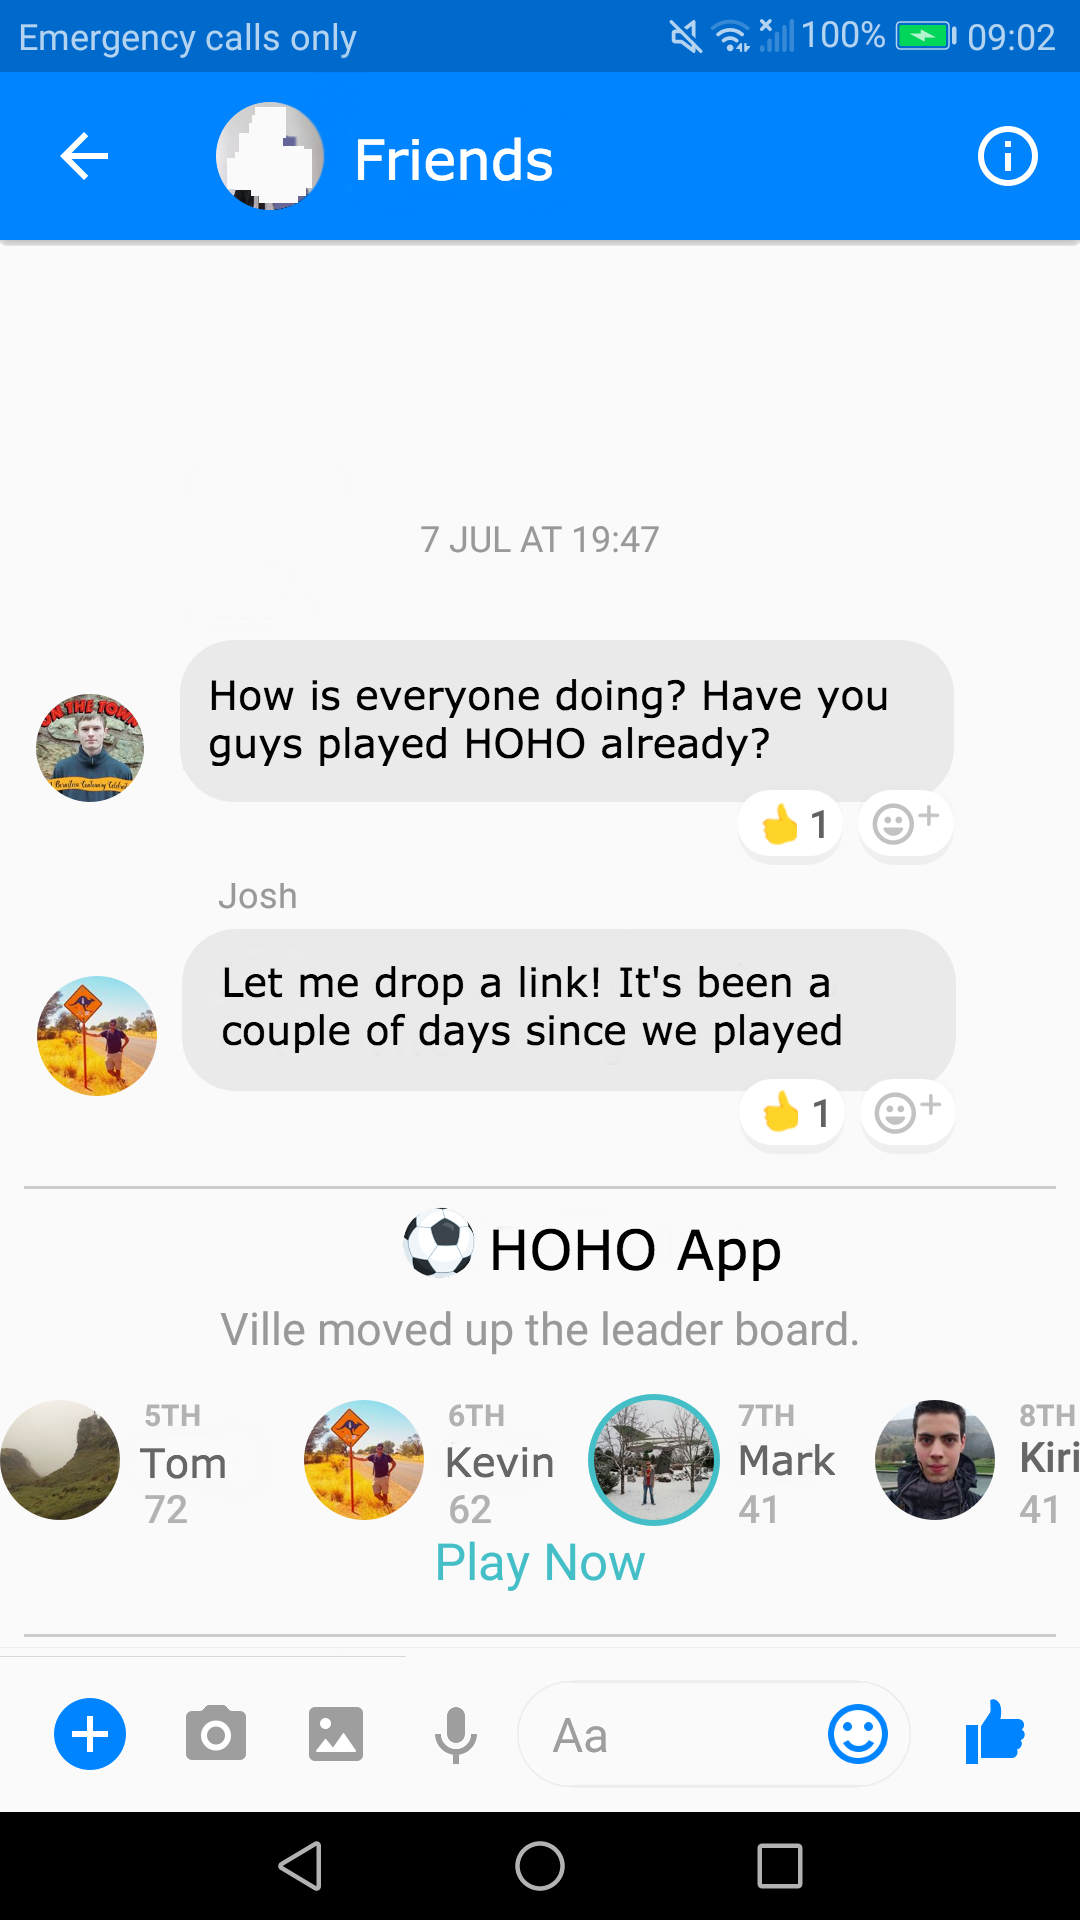
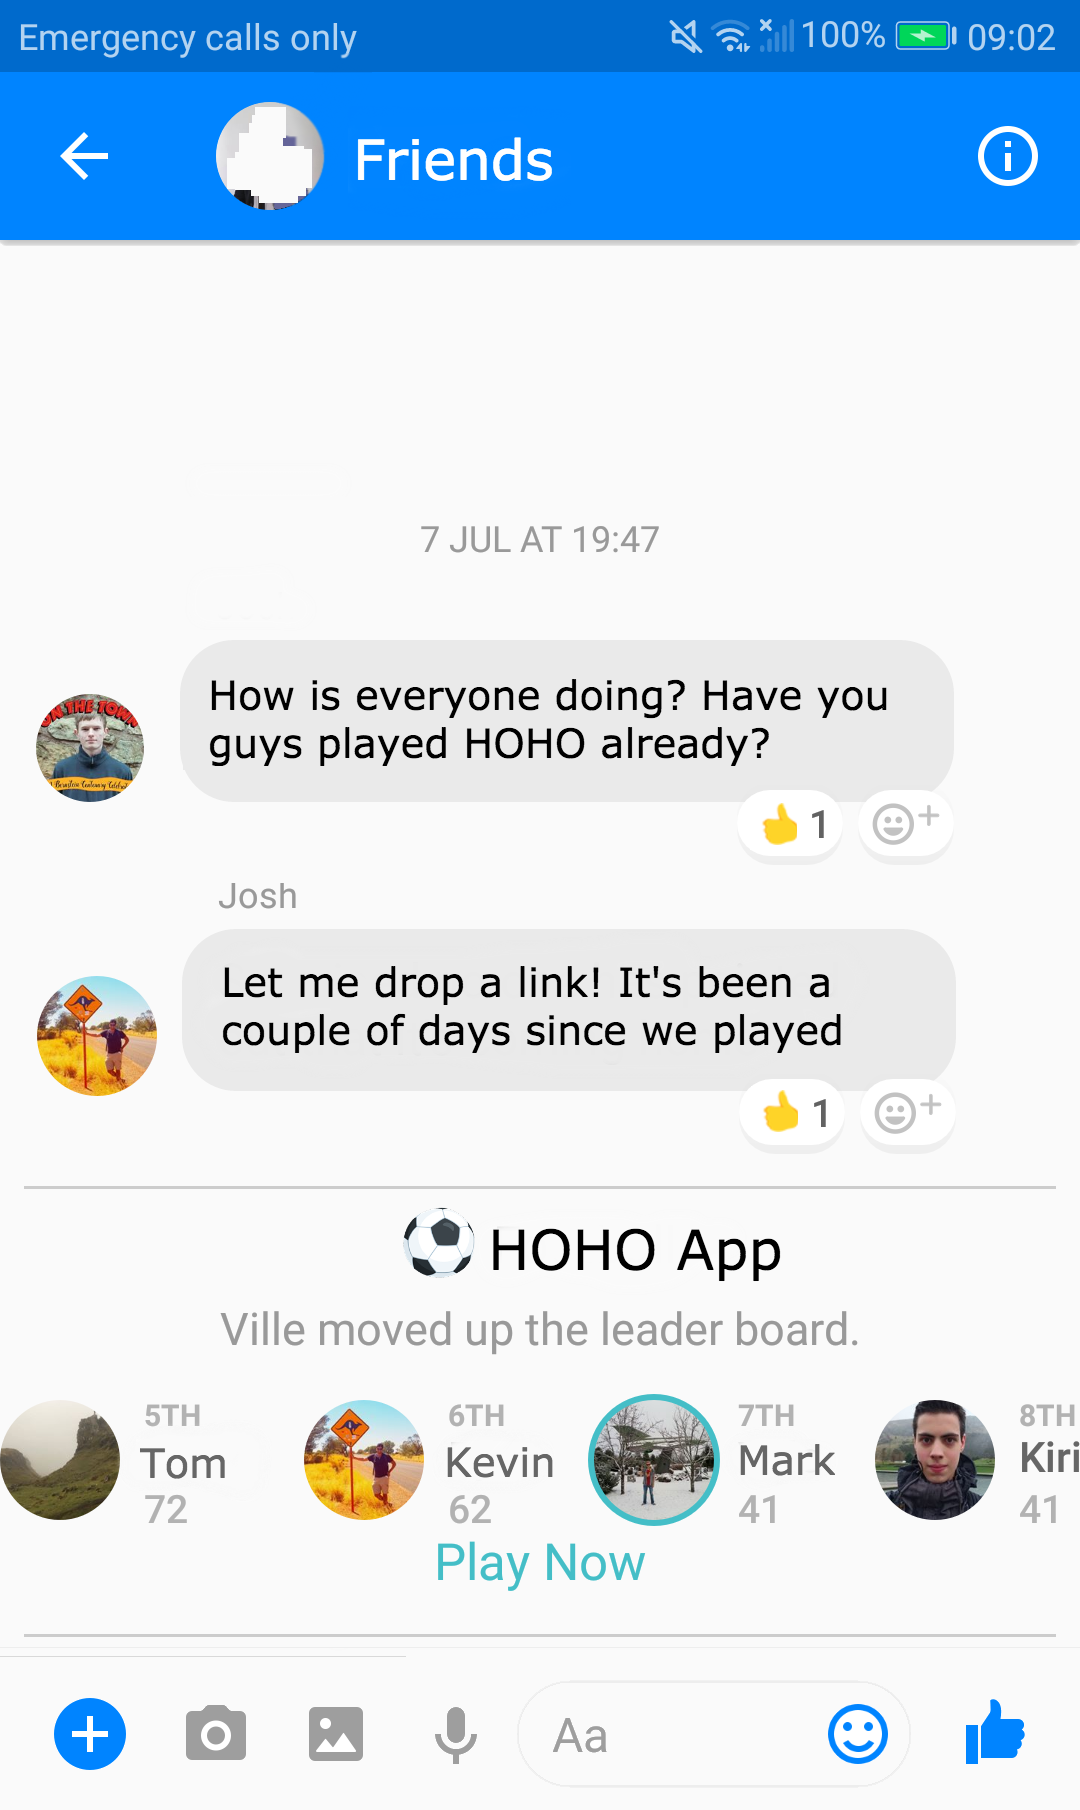
final

diff --git a/src/pages/home/home.ts b/src/pages/home/home.ts
@@ -1,9 +1,12 @@
 import { Component } from '@angular/core';
 import { NavController } from 'ionic-angular';
-import {LoadingController, ToastController} from 'ionic-angular';
+import {LoadingController, ToastController, AlertController} from 'ionic-angular';
 import {FriendPage} from '../friend/friend';
 import { MorePage } from '../more/more';
 import { BonusPage } from '../bonus/bonus';
+import { PhotoViewer } from '@ionic-native/photo-viewer';
+import { File } from '@ionic-native/file';
+import { Platform } from 'ionic-angular';
 
 @Component({
   selector: 'page-home',
@@ -12,7 +15,7 @@ import { BonusPage } from '../bonus/bonus';
 })
 export class HomePage {
 
-
+  first:boolean = true;
   source:string = "assets/img/tick.png"
   p1:string="assets/img/i16.png";
   p2:string="assets/img/i11.png";
@@ -23,8 +26,21 @@ export class HomePage {
   p7:string="assets/img/i15.png";
   p8:string="assets/img/i17.png";
 
-  constructor(public navCtrl: NavController, public loadCtrl: LoadingController, public toastCtrl: ToastController) {
+  constructor(public navCtrl: NavController, public loadCtrl: LoadingController, public toastCtrl: ToastController,private photoViewer: PhotoViewer
+    ,private file: File,public platform: Platform, public alertCtrl: AlertController) {
 
+  }
+
+
+  ionViewDidLoad() {
+
+    
+    this.platform.ready().then(() => { 
+        if(this.first==true){
+          this.first=false;
+          this.onViewImg('www/assets/img/sc3.png','')
+        }
+    });
   }
 
   showProfilePage() {
@@ -87,5 +103,17 @@ export class HomePage {
     loading.present();
   }
   
-  
+  onViewImg(img, title){
+    console.log(this.file.applicationDirectory , img);
+    this.photoViewer.show(this.file.applicationDirectory + img, title, {share: true});
+  }
+
+  presentAlert() {
+    let alert = this.alertCtrl.create({
+      subTitle: 'You\'ve been having light back pain for the last 2 months. Contact your GP for more information!',
+      title: 'Daily contribution! +50 Points',
+      buttons: ['Continue']
+    });
+    alert.present();
+  }
 }

diff --git a/src/pages/friend/friend.ts b/src/pages/friend/friend.ts
@@ -2,6 +2,8 @@ import { Component } from '@angular/core';
 import { IonicPage, NavController, NavParams } from 'ionic-angular';
 import { ProgressBarComponent } from '../../components/progress-bar/progress-bar';
 import { AlertController } from 'ionic-angular';
+import { PhotoViewer } from '@ionic-native/photo-viewer';
+import { File } from '@ionic-native/file';
 
 /**
  * Generated class for the FriendPage page.
@@ -20,7 +22,8 @@ export class FriendPage {
 
   loadProgress:number = 10;
 
-  constructor(public navCtrl: NavController, public navParams: NavParams, private alertCtrl: AlertController) {
+  constructor(public navCtrl: NavController, public navParams: NavParams, private alertCtrl: AlertController,private photoViewer: PhotoViewer
+    ,private file: File) {
   }
 
   ionViewDidLoad() {
@@ -29,7 +32,7 @@ export class FriendPage {
 
 
   swipe(event) {
-    if(event.direction === 4) {
+    if(event.direction == 4) {
       //this.navCtrl.push(HomePage);
       this.navCtrl.popToRoot()
     }
@@ -38,11 +41,16 @@ export class FriendPage {
   
   presentAlert() {
     let alert = this.alertCtrl.create({
-      subTitle: 'John seems to be having pain for the last 3 weeks',
+      subTitle: 'John seems to be having tooth pain for the last 3 weeks',
       title: 'Reach him out!',
       buttons: ['Okay']
     });
     alert.present();
+  }
+
+  onViewImg(img, title){
+    console.log(this.file.applicationDirectory , img);
+    this.photoViewer.show(this.file.applicationDirectory + img, title, {share: true});
   }
 
 }

diff --git a/src/pages/data/data.html b/src/pages/data/data.html
@@ -1,0 +1,52 @@
+<!--
+  Generated template for the DataPage page.
+
+  See http://ionicframework.com/docs/components/#navigation for more info on
+  Ionic pages and navigation.
+-->
+<ion-header>
+
+  <ion-navbar>
+    <ion-title>My progress so far</ion-title>
+  </ion-navbar>
+
+</ion-header>
+
+
+<ion-content padding>
+    <div class="main-content" (swipe)="swipe($event)">
+
+        <ion-card>
+
+            <img src="assets/img/gfx.png"/>
+        
+            <ion-card-content>
+              <ion-card-title>
+                Points: 3550
+              </ion-card-title>
+              <p>
+                Average weekly contributions: 3
+              </p>
+            </ion-card-content>
+        
+        
+            <ion-item>
+                <ion-icon name='pulse' item-start style="color: #55acee"></ion-icon>
+      
+                Health
+                <ion-badge item-end>Satisfactory</ion-badge>
+              </ion-item>
+    
+
+
+          <ion-item>
+              <ion-icon name="body" item-start ></ion-icon>
+                Mild back pain
+              <ion-badge item-end>Check</ion-badge>
+            </ion-item>
+  
+      
+        </ion-card>
+
+    </div>
+</ion-content>

diff --git a/src/pages/me/me.html b/src/pages/me/me.html
@@ -1,0 +1,50 @@
+<!--
+  Generated template for the MePage page.
+
+  See http://ionicframework.com/docs/components/#navigation for more info on
+  Ionic pages and navigation.
+-->
+<ion-header>
+
+  <ion-navbar>
+    <ion-title>My profile</ion-title>
+  </ion-navbar>
+
+</ion-header>
+
+
+<ion-content padding>
+    <div class="main-content" (swipe)="swipe($event)">
+
+    <ion-card>
+
+        <img src="assets/img/prof.jpg"/>
+    
+        <ion-card-content>
+          <ion-card-title>
+            Will
+          </ion-card-title>
+          <p>
+            A father of two
+          </p>
+        </ion-card-content>
+    
+    
+        <ion-item>
+            <ion-icon name='pulse' item-start style="color: #55acee"></ion-icon>
+  
+            Health
+            <ion-badge item-end>Satisfactory</ion-badge>
+          </ion-item>
+
+        <ion-item>
+            <ion-icon name="pricetags" item-start ></ion-icon>
+
+          Points
+          <ion-badge item-end>3550</ion-badge>
+        </ion-item>
+
+    
+      </ion-card>
+    </div>
+</ion-content>

diff --git a/src/app/app.module.ts b/src/app/app.module.ts
@@ -8,6 +8,8 @@ import { ListPage } from '../pages/list/list';
 import { FriendPage } from '../pages/friend/friend';
 import { MorePage } from '../pages/more/more';
 import { BonusPage } from '../pages/bonus/bonus';
+import { MePage } from '../pages/me/me';
+import { DataPage } from '../pages/data/data';
 
 
 import { StatusBar } from '@ionic-native/status-bar';
@@ -24,6 +26,8 @@ import { ProgressBarComponent } from '../components/progress-bar/progress-bar';
     FriendPage,
     MorePage,
     BonusPage,
+    MePage,
+    DataPage,
     ProgressBarComponent
     
   ],
@@ -39,6 +43,8 @@ import { ProgressBarComponent } from '../components/progress-bar/progress-bar';
     FriendPage,
     MorePage,
     BonusPage,
+    MePage,
+    DataPage
     
   ],
   providers: [

diff --git a/src/pages/data/data.ts b/src/pages/data/data.ts
@@ -1,0 +1,32 @@
+import { Component } from '@angular/core';
+import { IonicPage, NavController, NavParams } from 'ionic-angular';
+
+/**
+ * Generated class for the DataPage page.
+ *
+ * See https://ionicframework.com/docs/components/#navigation for more info on
+ * Ionic pages and navigation.
+ */
+
+@IonicPage()
+@Component({
+  selector: 'page-data',
+  templateUrl: 'data.html',
+})
+export class DataPage {
+
+  constructor(public navCtrl: NavController, public navParams: NavParams) {
+  }
+
+  ionViewDidLoad() {
+    console.log('ionViewDidLoad DataPage');
+  }
+
+  swipe(event) {
+    if(event.direction == 4) {
+      //this.navCtrl.push(HomePage);
+      this.navCtrl.popToRoot()
+    }
+  }
+
+}

diff --git a/src/pages/me/me.ts b/src/pages/me/me.ts
@@ -1,0 +1,32 @@
+import { Component } from '@angular/core';
+import { IonicPage, NavController, NavParams } from 'ionic-angular';
+import { DataPage } from '../data/data';
+
+/**
+ * Generated class for the MePage page.
+ *
+ * See https://ionicframework.com/docs/components/#navigation for more info on
+ * Ionic pages and navigation.
+ */
+
+@IonicPage()
+@Component({
+  selector: 'page-me',
+  templateUrl: 'me.html',
+})
+export class MePage {
+
+  constructor(public navCtrl: NavController, public navParams: NavParams) {
+  }
+
+  ionViewDidLoad() {
+    console.log('ionViewDidLoad MePage');
+  }
+
+  swipe(event) {
+    if(event.direction == 2) {
+      this.navCtrl.push(DataPage);
+    }
+  }
+
+}

diff --git a/src/app/app.component.ts b/src/app/app.component.ts
@@ -8,6 +8,8 @@ import { ListPage } from '../pages/list/list';
 import { FriendPage } from '../pages/friend/friend';
 import { MorePage } from '../pages/more/more';
 import { BonusPage } from '../pages/bonus/bonus';
+import { MePage } from '../pages/me/me';
+import { DataPage } from '../pages/data/data';
 
 @Component({
   templateUrl: 'app.html'
@@ -28,6 +30,7 @@ export class MyApp {
       { title: 'My buddies', component: FriendPage },
       { title: 'More', component: MorePage },
       { title: 'Bonus', component: BonusPage },
+      { title: 'My Profile', component: MePage },
 
 
     ];

diff --git a/src/pages/friend/friend.html b/src/pages/friend/friend.html
@@ -42,7 +42,7 @@
               <img src="assets/img/human4.jpg">
             </ion-avatar>
             <h2>John<progress-bar [progress]="21" [newcolor]="'#ffaf48'" (click)="presentAlert()" ></progress-bar></h2>
-            <button ion-button clear large  item-end><ion-icon name="send"></ion-icon></button>
+            <button ion-button clear large  item-end><ion-icon name="send" (click)="onViewImg('www/assets/img/sc4.png','')"></ion-icon></button>
             <p>Reach him out!</p>
           </ion-item>  
 

diff --git a/src/pages/home/home.html b/src/pages/home/home.html
@@ -58,6 +58,13 @@
 
 <ion-footer>
   <ion-toolbar>
-    <ion-title text-center (click)="presentLoadingDefault()">Done!</ion-title>
+    <ion-title text-center (click)="presentAlert()"  (click)="presentLoadingDefault()">  
+      
+      <ion-icon name="arrow-dropleft"></ion-icon>
+
+      Done!
+      <ion-icon name="arrow-dropright"></ion-icon>
+
+    </ion-title>
   </ion-toolbar>
 </ion-footer>

diff --git a/src/pages/data/data.module.ts b/src/pages/data/data.module.ts
@@ -1,0 +1,13 @@
+import { NgModule } from '@angular/core';
+import { IonicPageModule } from 'ionic-angular';
+import { DataPage } from './data';
+
+@NgModule({
+  declarations: [
+    DataPage,
+  ],
+  imports: [
+    IonicPageModule.forChild(DataPage),
+  ],
+})
+export class DataPageModule {}

diff --git a/src/pages/me/me.module.ts b/src/pages/me/me.module.ts
@@ -1,0 +1,13 @@
+import { NgModule } from '@angular/core';
+import { IonicPageModule } from 'ionic-angular';
+import { MePage } from './me';
+
+@NgModule({
+  declarations: [
+    MePage,
+  ],
+  imports: [
+    IonicPageModule.forChild(MePage),
+  ],
+})
+export class MePageModule {}
